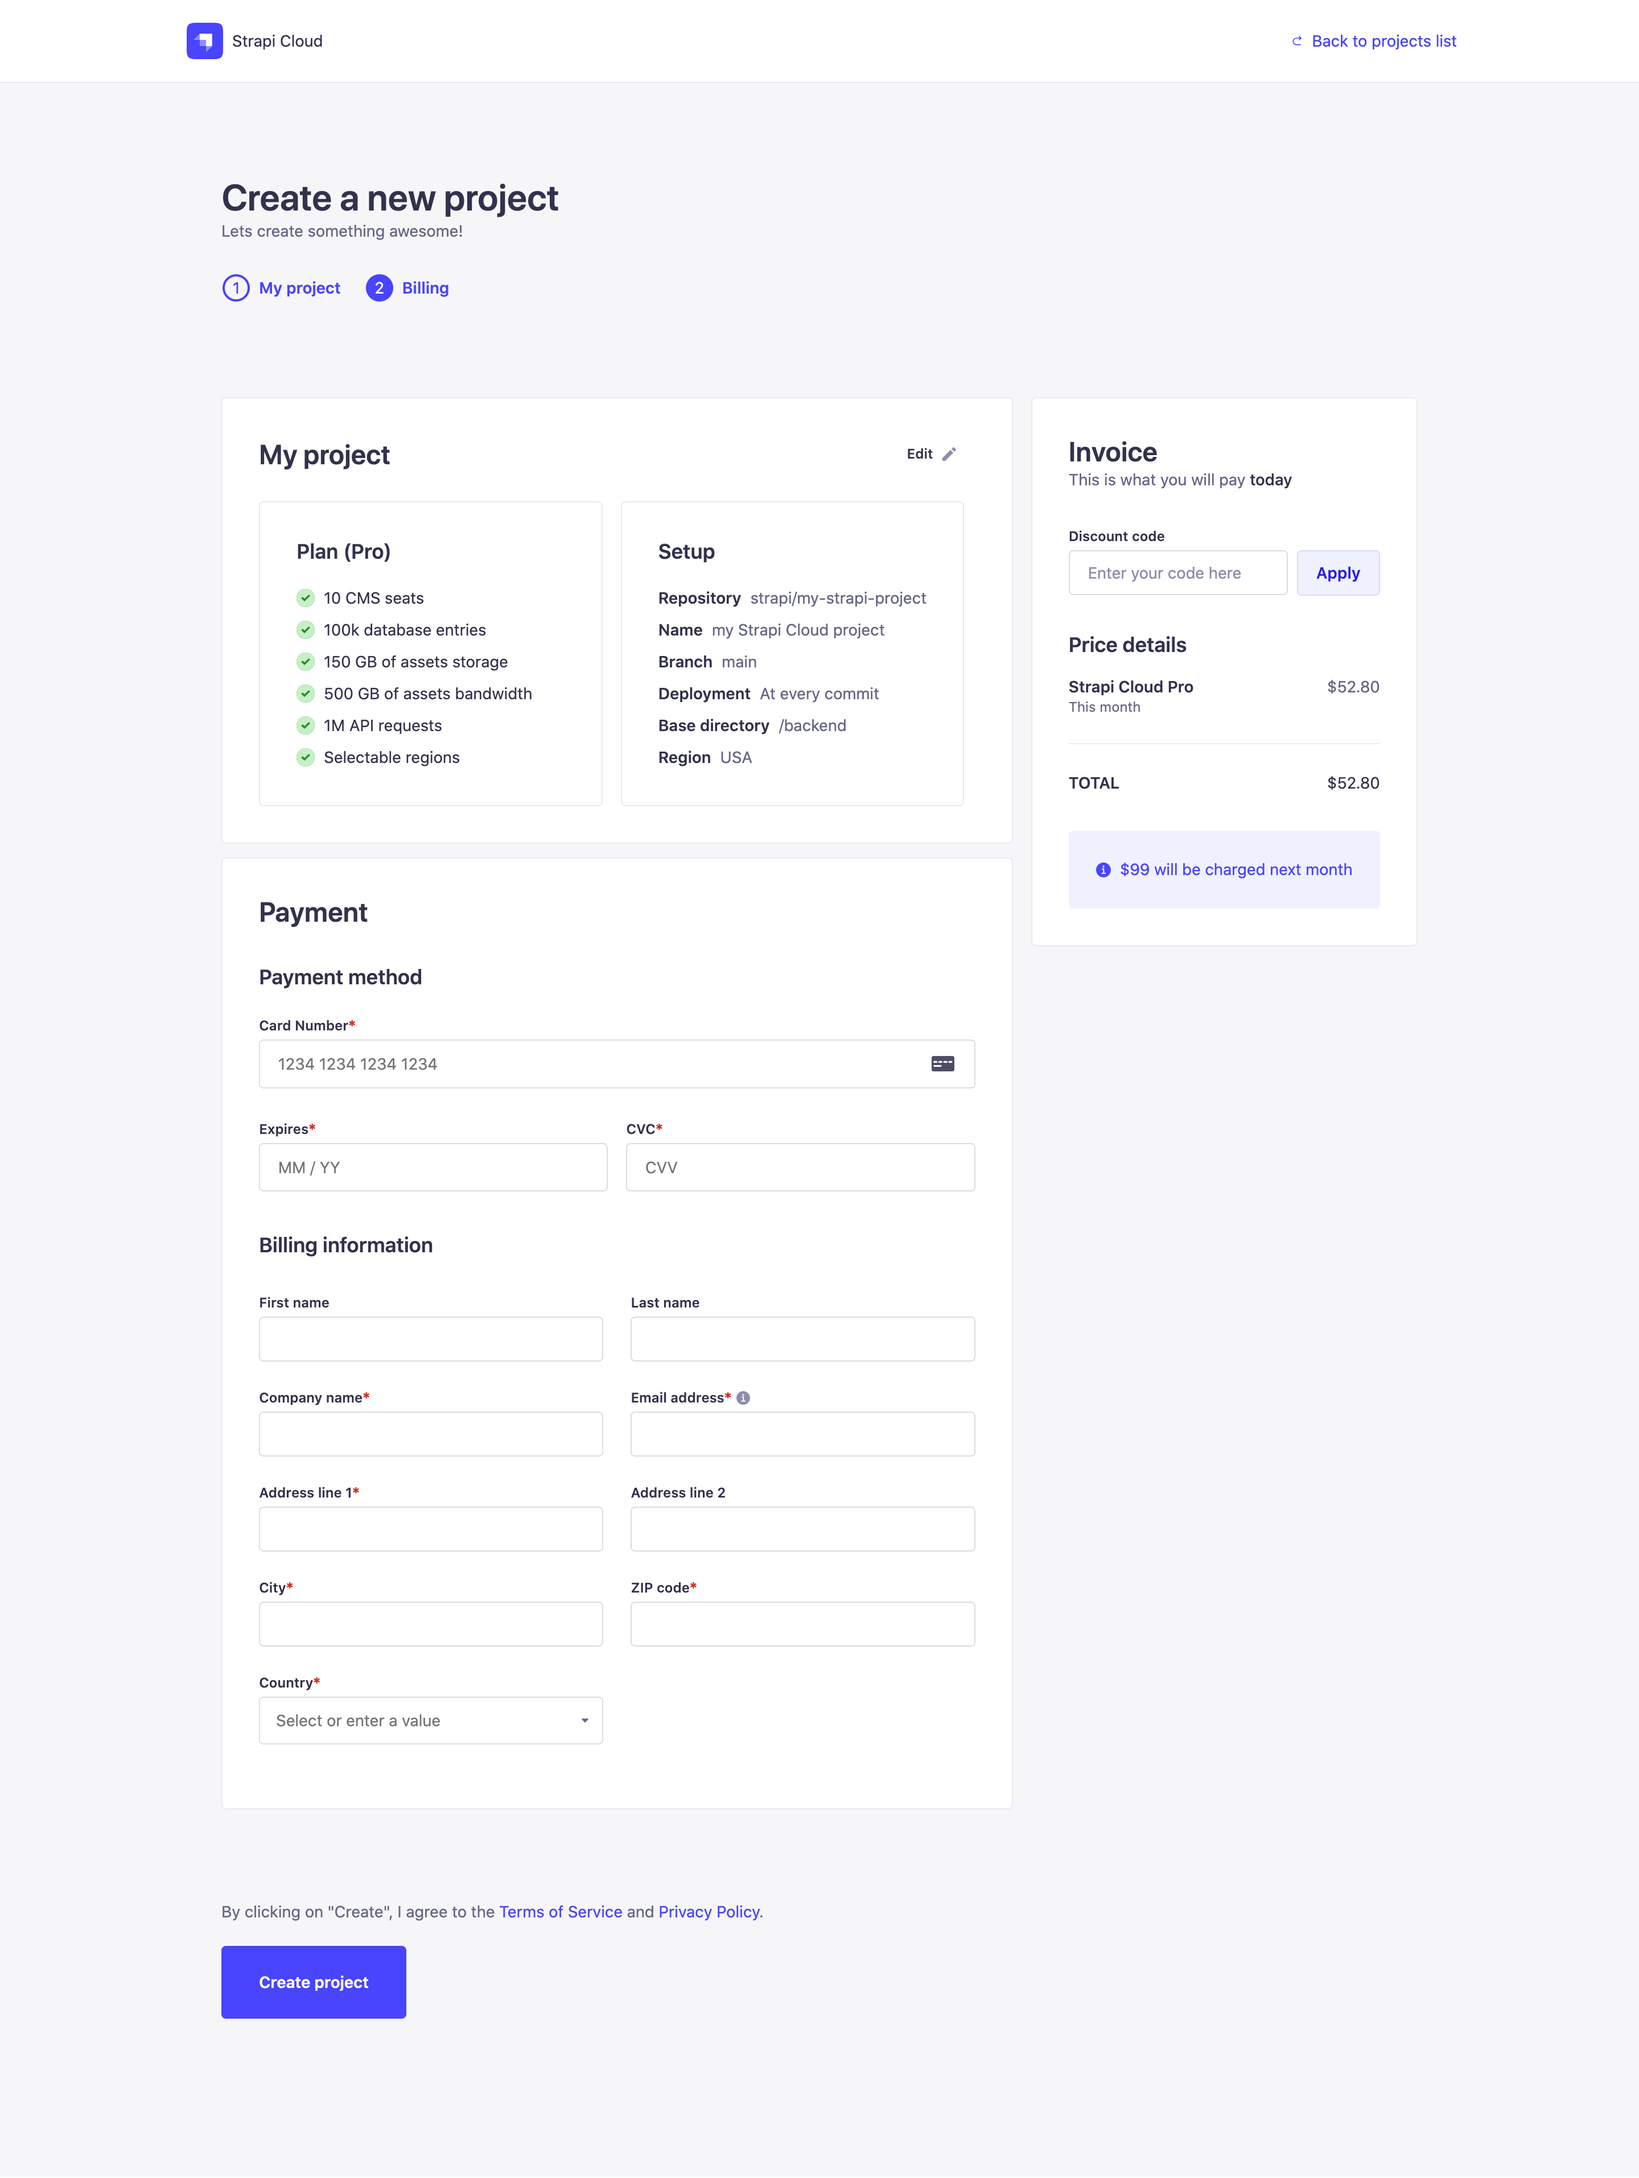
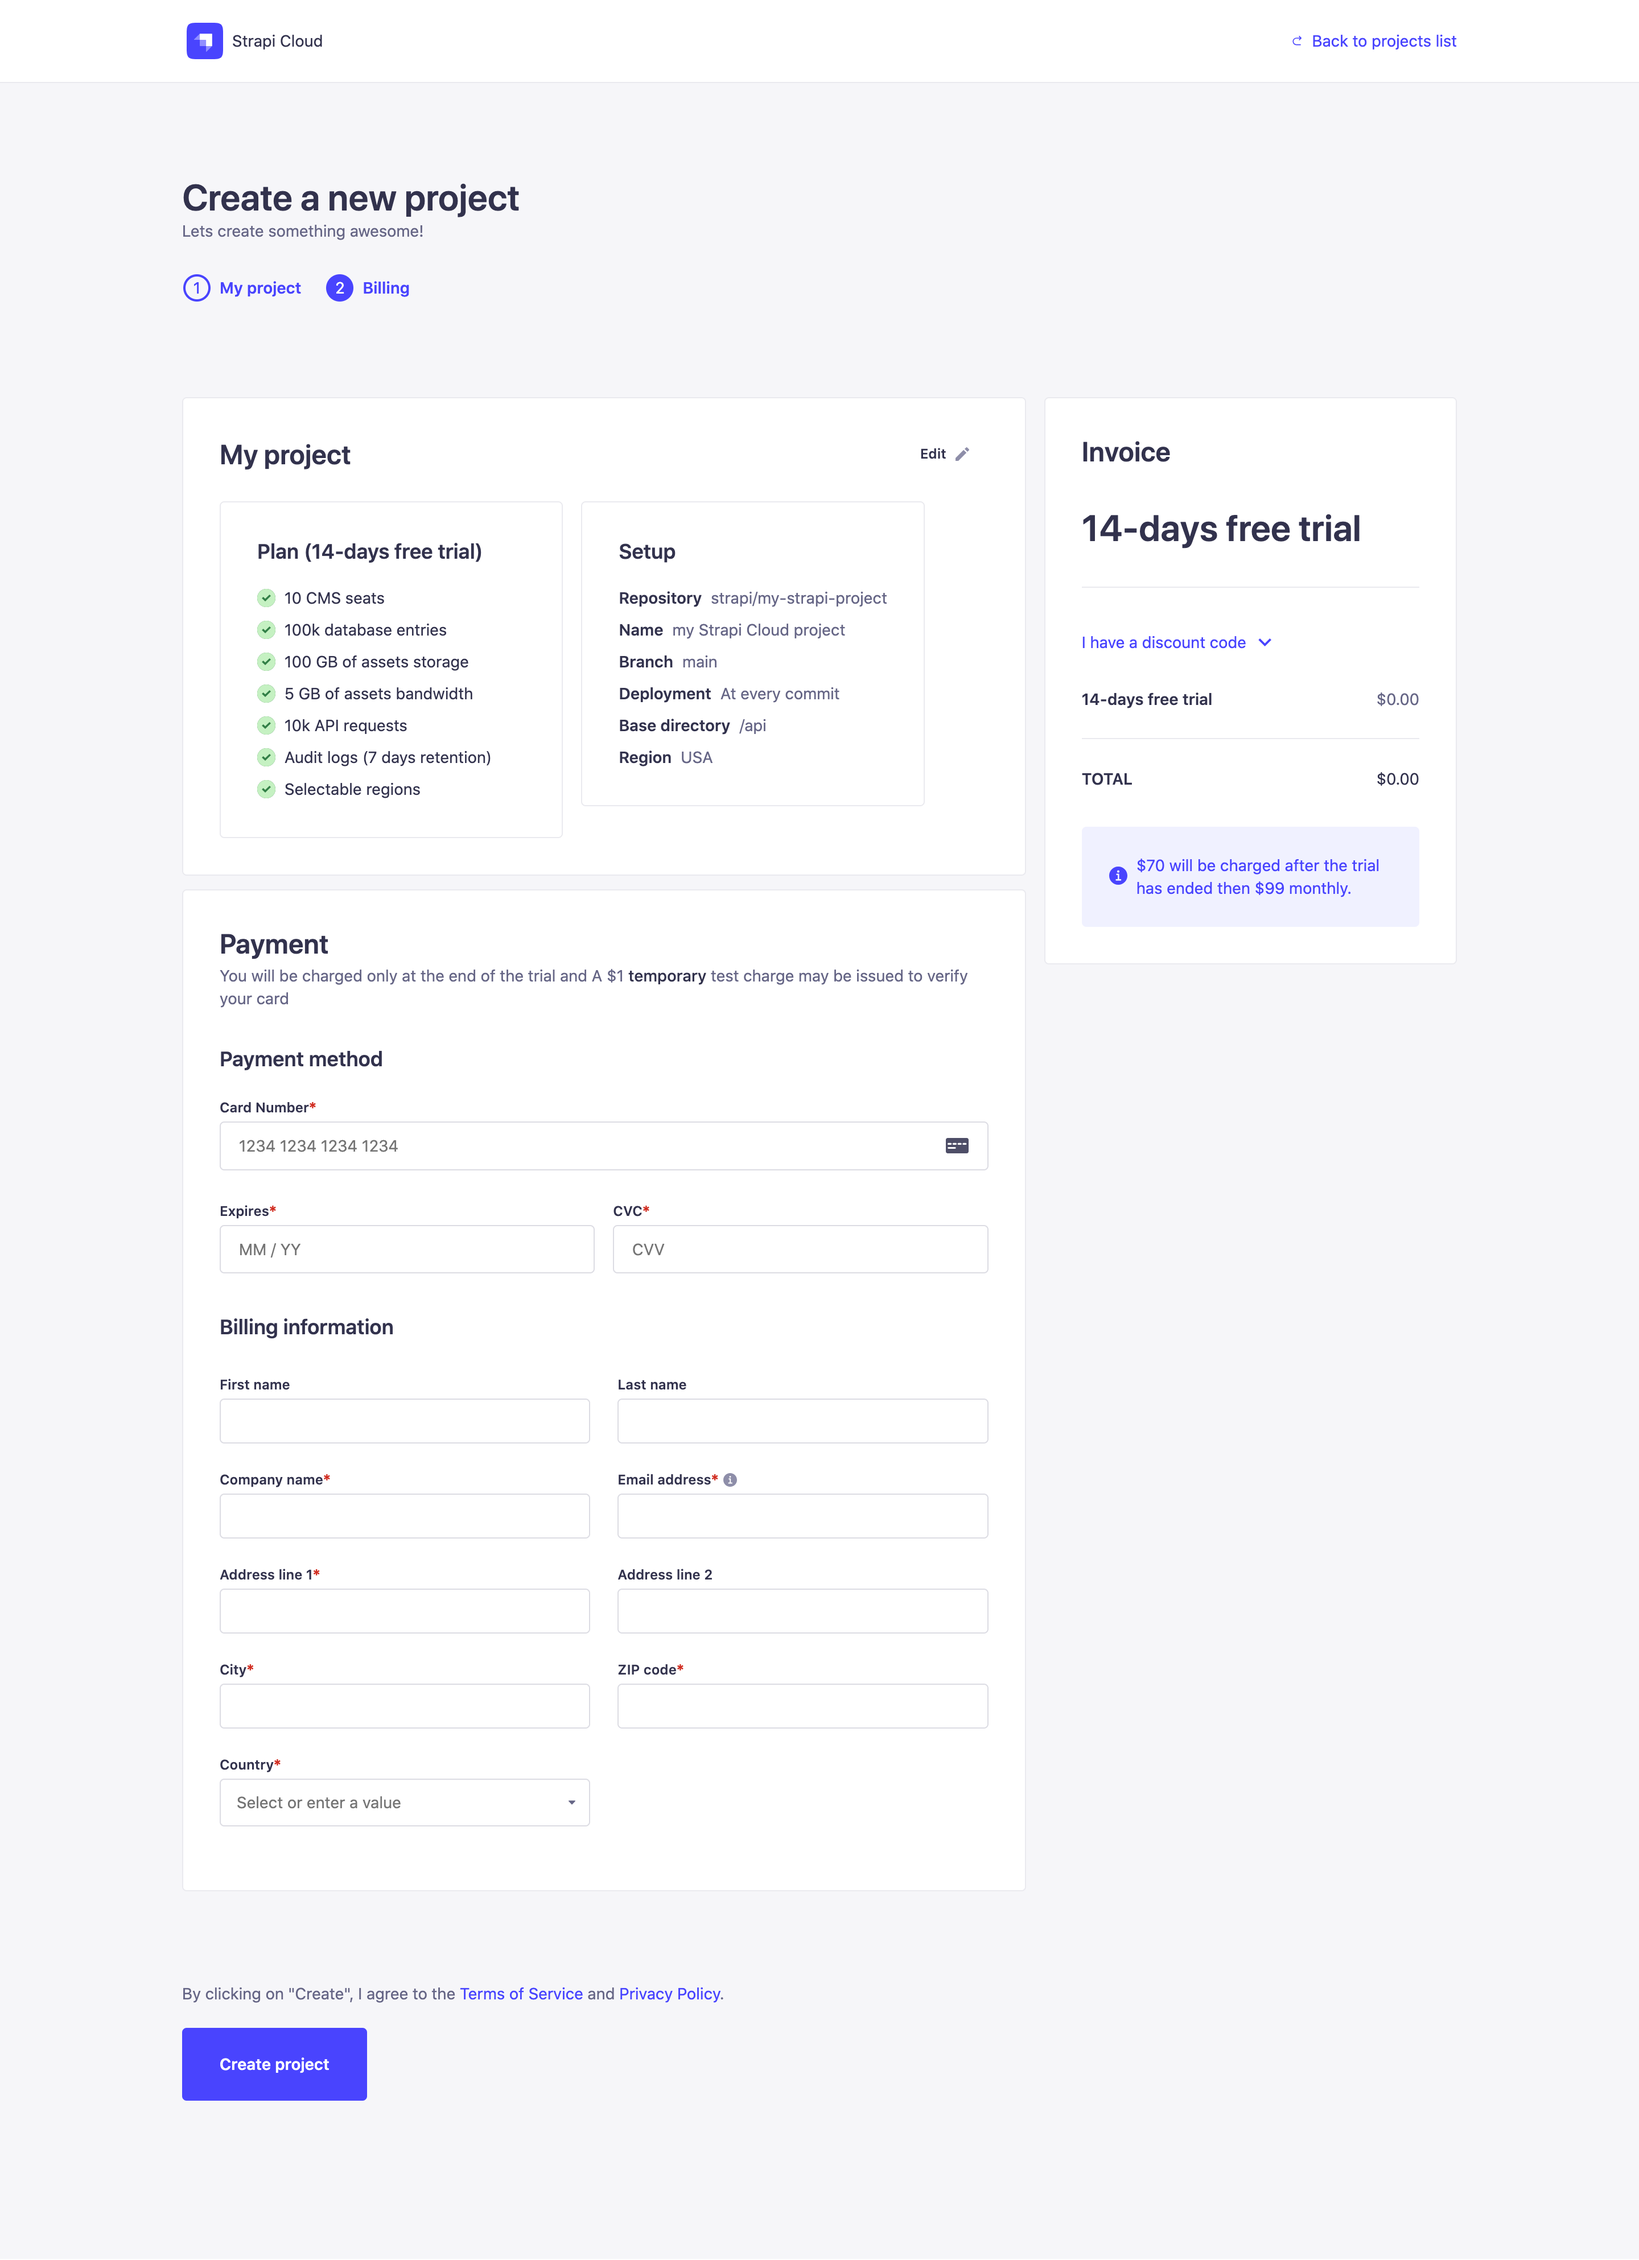
Billing page screenshots update in Strapi Cloud project creation guide (#1857)
* Update billing page screenshots in project creation guide

* Update Strapi Cloud docs TOC

* Clean TOC

diff --git a/docusaurus/sidebars.js b/docusaurus/sidebars.js
@@ -568,14 +568,7 @@ const sidebars = {
             updated: true,
           },
         },
-        {
-          type: 'doc',
-          label: 'Collaboration',
-          id: 'cloud/projects/collaboration',
-          customProps: {
-            new: true,
-          },
-        },
+        'cloud/projects/collaboration',
         {
           type: 'doc',
           label: 'Notifications',
@@ -588,14 +581,7 @@ const sidebars = {
       collapsed: false,
       label: 'Account Management',
       items: [
-        {
-          type: 'doc',
-          label: 'Account Settings',
-          id: 'cloud/account/settings',
-          customProps: {
-            updated: true,
-          },
-        },
+        'cloud/account/settings',
       ]
     },
     {
